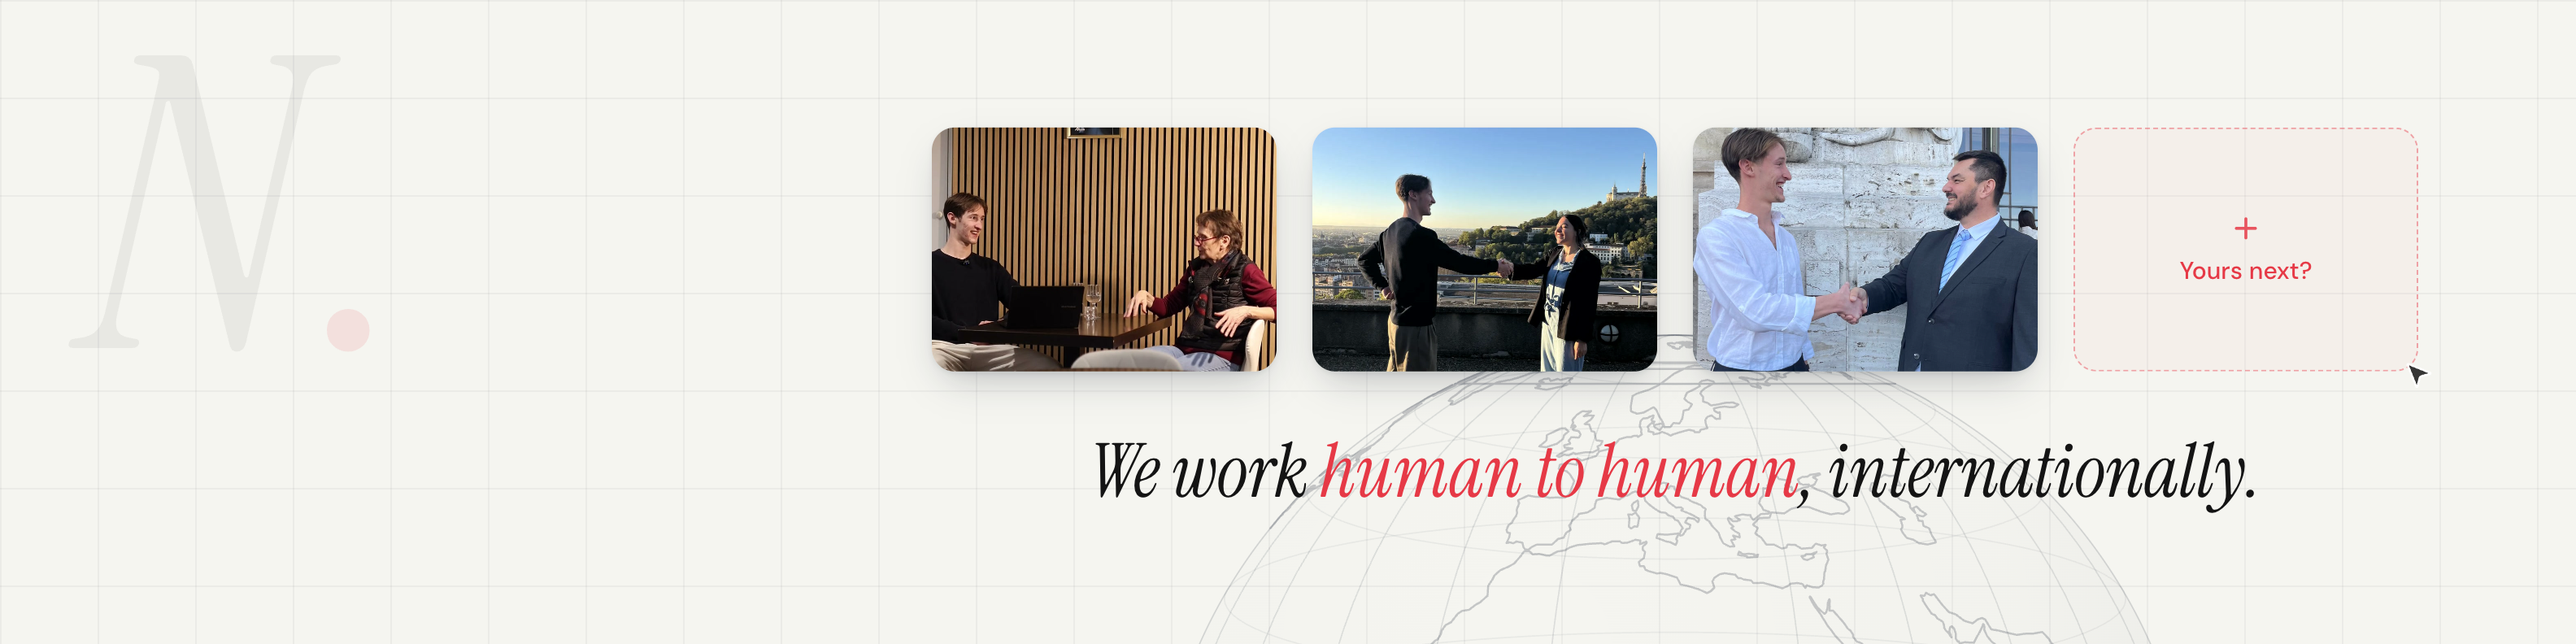
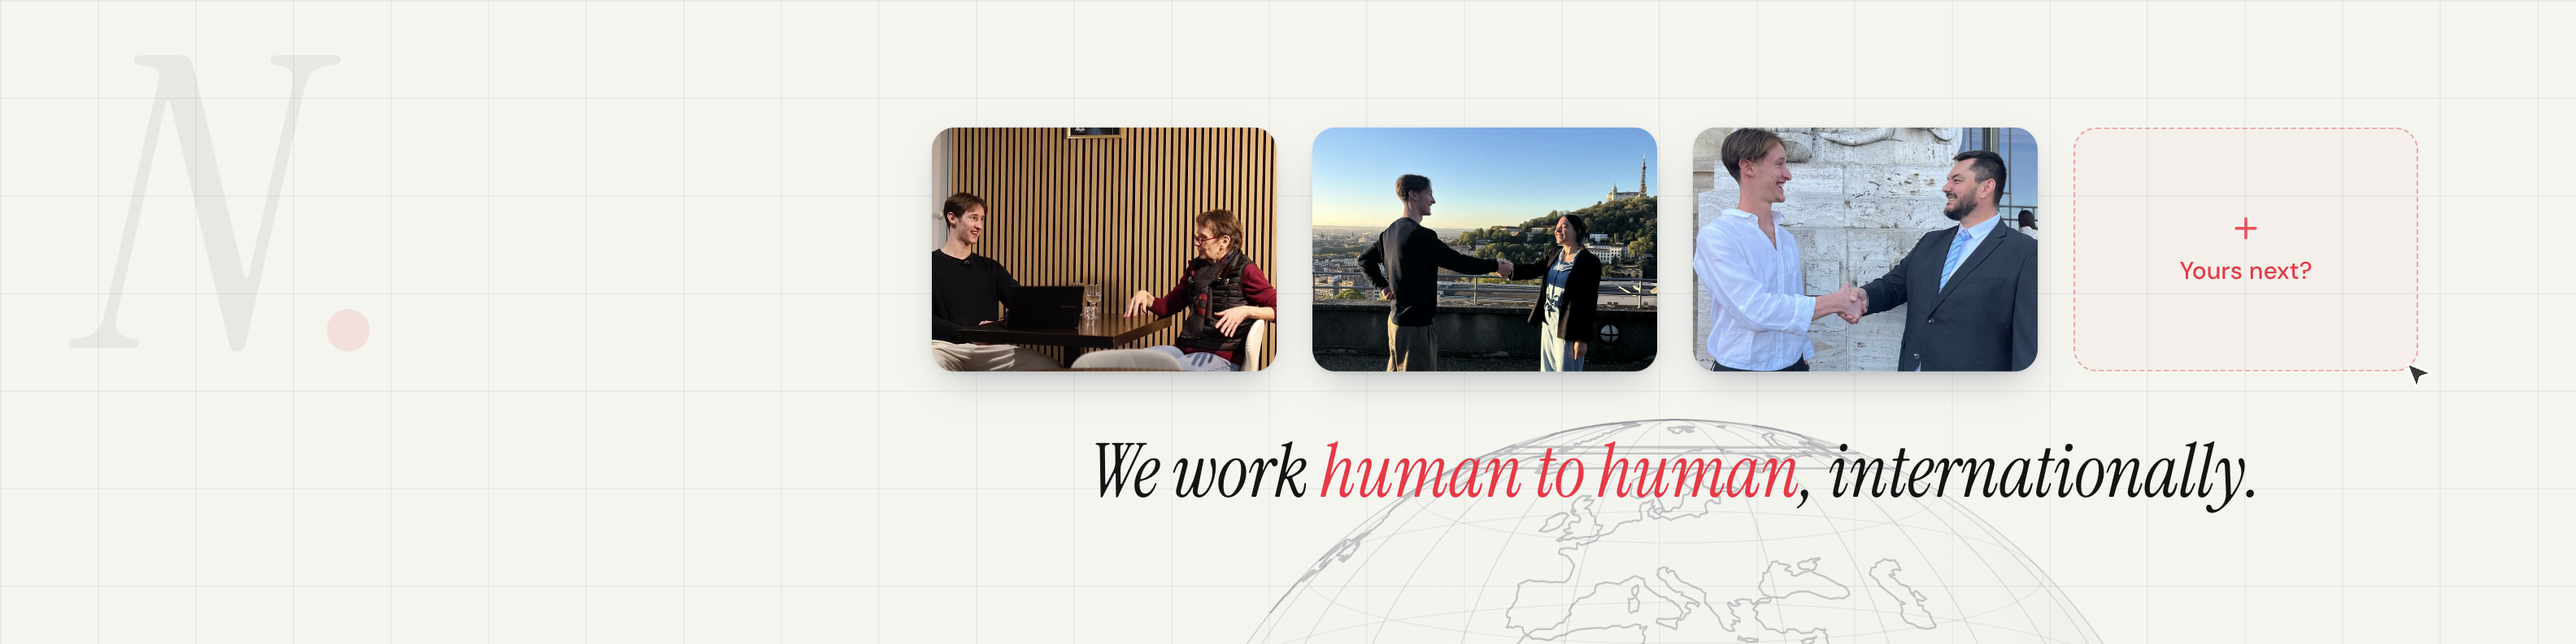
Le planisphère descend sous le titre
Le globe passe de top 196 à top 248. Son arc supérieur ne traverse plus
la ligne de base du titre : le texte est au net, la sphère commence
dessous.

Ce que ça coûte, et c'est acceptable : la bande visible passe de la
latitude 24 N à la latitude 35 N. L'Afrique du Nord et le sud de la
Méditerranée sortent du cadre, l'Europe reste entière.

diff --git a/linkedin-banner-humain.html b/linkedin-banner-humain.html
@@ -97,7 +97,7 @@
   .watermark i { font-style: normal; color: rgba(230,57,70,0.11); }
 
   /* Le globe, derriere tout, centre sous les photos. */
-  .globe { position: absolute; left: 1030px; top: 196px;
+  .globe { position: absolute; left: 1030px; top: 248px;
            width: 660px; height: 660px; transform: translateX(-50%);
            color: rgba(15,23,42,0.055); }
 
